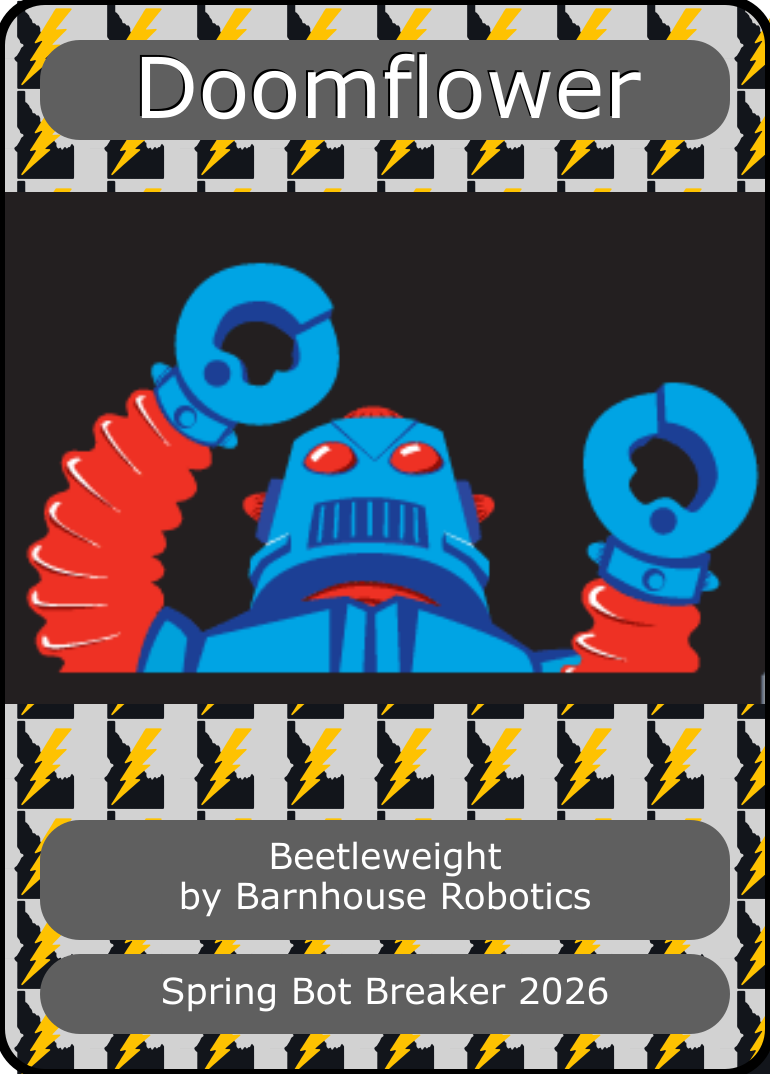
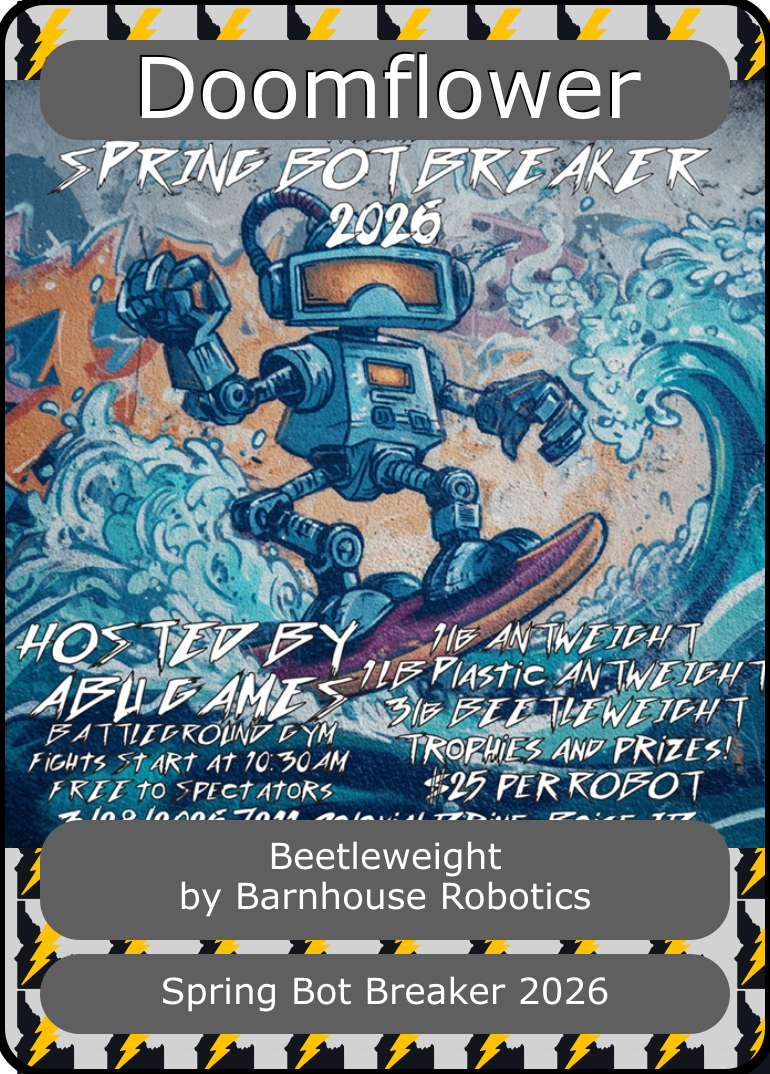
sbb

diff --git a/cards/IRCL_TTDB.md b/cards/IRCL_TTDB.md
@@ -199,7 +199,7 @@ relates:has_bot>@LAT-30LON30,has_bot>@LAT-15LON70,has_bot>@LAT0LON110,has_bot>@L
 - Card image: ![Black Talon](Spring_Bot_Breaker_2026/Black_Talon.png)
 - Weight class: Full Combat Antweight
 - Team: Trouble Robotics
-- Image: ![Black Talon](unknown)
+- Image: ![Black Talon](https://ircl-io.github.io/cards/cards/Spring_Bot_Breaker_2026/IRCL_SBB2026-2.jpg)
 
 ---
 
@@ -209,7 +209,7 @@ relates:has_bot>@LAT-30LON30,has_bot>@LAT-15LON70,has_bot>@LAT0LON110,has_bot>@L
 - Card image: ![Ghost Viper](Spring_Bot_Breaker_2026/Ghost_Viper.png)
 - Weight class: Full Combat Antweight
 - Team: Team Dairy
-- Image: ![Ghost Viper](unknown)
+- Image: ![Ghost Viper](https://ircl-io.github.io/cards/cards/Spring_Bot_Breaker_2026/IRCL_SBB2026-2.jpg)
 
 ---
 
@@ -291,7 +291,7 @@ relates:has_bot>@LAT-30LON30,has_bot>@LAT-15LON70,has_bot>@LAT0LON110,has_bot>@L
 - Card image: ![Outbreak Plantfected](Spring_Bot_Breaker_2026/Outbreak_Plantfected.png)
 - Weight class: Plastic Antweight
 - Team: Trouble Robotics
-- Image: ![Outbreak Plantfected](https://www.robotcombatevents.com/assets/RCELogo-3383ca77f76e5be2b7755ea9d0c464aea25a87d8c9f2a4cffd63643392f59fe7.png)
+- Image: ![Outbreak Plantfected](https://ircl-io.github.io/cards/cards/Spring_Bot_Breaker_2026/IRCL_SBB2026-2.jpg)
 
 ---
 
@@ -302,7 +302,7 @@ relates:has_bot>@LAT-30LON30,has_bot>@LAT-15LON70,has_bot>@LAT0LON110,has_bot>@L
 - Weight class: Beetleweight
 - Team: Barnhouse Robotics
 - URL: https://www.robotcombatevents.com/groups/2796/resources/22541
-- Image: ![Doomflower](https://www.robotcombatevents.com/assets/RCELogo-3383ca77f76e5be2b7755ea9d0c464aea25a87d8c9f2a4cffd63643392f59fe7.png)
+- Image: ![Doomflower](https://ircl-io.github.io/cards/cards/Spring_Bot_Breaker_2026/IRCL_SBB2026-2.jpg)
 
 ---
 
